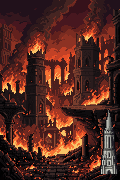
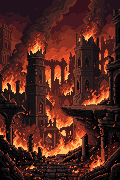
Torre: terreno sin aguja + aguja aparte (torre_base) con punto dorado por piso; quita duplicados de gen (pd-v33)
Claude-Session: https://claude.ai/code/session_014cUX87EDqZ9zQEPwB8aYGo

Changed region(s): [[0.825, 0.6111, 0.975, 0.9722]]

diff --git a/public/app.js b/public/app.js
@@ -176,7 +176,14 @@ function viewHoy() {
 }
 
 let mapAct = 0, mapSel = 0;
-const zoneImg = floor => `<div class="strip scene zoneimg"><div class="top"><span>${zoneOf(floor).n}</span><span>Torre</span></div><img class="px" alt="" src="${zoneTowerSrc(floor)}"></div>`;
+/** Torre sobre el terreno de la zona: la aguja va pegada a la derecha (píxeles 100-118, 109-173 de 120×180) y el punto dorado marca el piso (1 en la base, 100 en la punta). */
+const TOWER = { x: 100, y: 109, w: 18, h: 65, cx: 109, yb: 173, yt: 109 };
+const towerView = floor => {
+  const f = Math.min(100, Math.max(1, floor)), yc = TOWER.yb - (f - 1) / 99 * (TOWER.yb - TOWER.yt) + 0.5;
+  const tower = has('torre_base') ? `<img class="px tvt" alt="" src="${url('torre_base')}">` : '';
+  return `<div class="tv"><img class="px tvg" alt="" src="${zoneTowerSrc(floor)}">${tower}<i class="tvd" title="Piso ${f}" style="left:${(TOWER.cx + 0.5) / 120 * 100}%;top:${yc / 180 * 100}%"></i></div>`;
+};
+const zoneImg = floor => `<div class="strip scene zoneimg"><div class="top"><span>${zoneOf(floor).n}</span><span>Torre</span></div>${towerView(floor)}</div>`;
 const z0 = f => { const z = zoneOf(f), act = Math.min(10, Math.ceil(f / 10)); return `${z.n} · ${act}-${((f - 1) % 10) + 1}`; };
 function viewTorre() {
   if (!S.startDate || dayIdx(todayISO()) < 0) return `<h1>Torre</h1><!--fit-->${S.startDate ? `${zoneImg(1)}<div class="strip scene"><div class="top"><span>Vista previa</span></div>${arenaHTML(arenaState(), true)}</div>` : ''}`;

diff --git a/public/style.css b/public/style.css
@@ -246,3 +246,9 @@ img.idle,.arena .hero.idle,.arena .pet.idle,.arena[data-run="0"] .pet{animation:
 
 .floorwrap{inset:auto 0 0 0;height:calc(6 * 100cqw / 240);z-index:0;pointer-events:none}
 .floorband{height:100%}.floorband i{width:50%;height:100%;display:block;background:linear-gradient(var(--gr2) 0 calc(1 * 100cqw / 240),var(--gr) calc(1 * 100cqw / 240) calc(4 * 100cqw / 240),var(--gr2) calc(4 * 100cqw / 240)),repeating-linear-gradient(90deg,transparent 0 calc(7 * 100cqw / 240),rgba(0,0,0,.25) calc(7 * 100cqw / 240) calc(8 * 100cqw / 240));background-blend-mode:normal}
+
+/* Torre sobre el terreno: 120×180; la aguja y el punto dorado van en porcentajes del marco. */
+.tv{position:relative;width:100%;aspect-ratio:120/180;background:#000}
+.tv>img.tvg{position:absolute;inset:0;width:100%;height:100%}
+.tv>img.tvt{position:absolute;left:83.333%;top:60.556%;width:15%;height:36.111%}
+.tv>i.tvd{position:absolute;width:2.5%;aspect-ratio:1;background:#ffd36b;transform:translate(-50%,-50%);box-shadow:0 0 0 1px #0e0c12,0 0 6px rgba(255,211,107,.8)}

diff --git a/public/sw.js b/public/sw.js
@@ -1,5 +1,5 @@
 // Service worker: funciona sin conexión (caché) y muestra las notificaciones push.
-const CACHE = 'pd-v32';
+const CACHE = 'pd-v33';
 const SHELL = ['/', '/index.html', '/app.js', '/engine.js', '/style.css', '/art.js', '/px.js', '/assets.js', '/manifest.webmanifest', '/icon-180.png', '/icon-192.png', '/icon-512.png'];
 
 self.addEventListener('install', e => { e.waitUntil(caches.open(CACHE).then(c => c.addAll(SHELL)).then(() => self.skipWaiting())); });

diff --git a/public/img/LEEME.md b/public/img/LEEME.md
@@ -29,4 +29,5 @@ Para ver un cambio en el iPhone, cerrá y abrí la app dos veces (usa caché).
 | `heroe_tX_eY_sprint_1.png` … (hasta 12) | 48×40 | Marcha con racha de 3 meses o más (mismo formato). Si falta una marcha se usa la más cercana |
 | `heroe_tX_eY_respirar_1.png` … (hasta 12) | 32×40 | Respiración de frente para las vistas del personaje (franja chica, Estadísticas). Si falta, el sprite quieto sube y baja |
 | `mascota_<nombre>_nN_correr_1.png` … `_4.png` (N = 1 a 5, 2 a 8 cuadros; Fénix y Qilin vuelan) | mismo tamaño que su versión quieta | Mascota **corriendo** (franja expandida y Torre). Si faltan, se usa la quieta con saltitos. El huevo (n0) no corre |
-| `torre_zona_01.png` … `torre_zona_12.png` | 120×180 (vertical) | Imagen de la torre con el fondo de la zona (se muestra arriba en la pestaña Torre). La torre (aguja gótica gris clara con borde, 18×65) va pegada abajo a la derecha. Hay 01-03; para las demás se usa una provisoria dibujada por código (240×96) |
+| `torre_zona_01.png` … `torre_zona_12.png` | 120×180 (vertical) | Solo el terreno y el cielo de la zona, **sin torre**. Se muestra en la pestaña Torre. |
+| `torre_base.png` | 18×65 | La aguja gótica sola, con borde (transparente). La app la pega abajo a la derecha (píxeles 100-118, 109-173 de la vista) y dibuja encima el punto dorado del piso actual |
